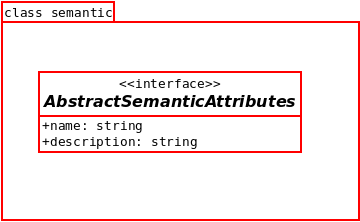
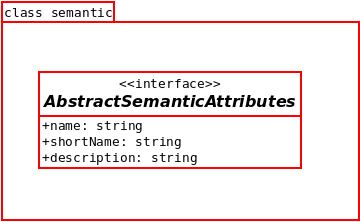
Refine Semantic Model

Changed region(s): [[0.0917, 0.5946, 0.8556, 0.7838]]

diff --git a/README.md b/README.md
@@ -70,8 +70,9 @@ Design and extension model for Single Point Incremental Forming - SPIF
 
 ![metamodel_scope](metamodel/semantic.png)
 
-- In this preliminary approach, the Semantic Model has been modelled just as two common attributes 'name' and 'description' for all classes in 'scope', 'data' and 'behaviour' packages.
-- Thus, the class AbstractSemanticAttributes with both attributes is inherited by the rest of classes.
+- In this preliminary approach, the Semantic Model has been modelled just as 3 common attributes 'name', 'shortName' and 'description' for all classes in 'scope', 'data' and 'behaviour' packages.
+- The idea behind this solution is based on having a detailed description of all the ontology concepts for the future construction of interfaces without doubts about semantics.
+- The 3 attributes are defined in the class AbstractSemanticAttributes which is inherited by the rest of classes.
 
 ### Metamodel: Scope Model
 
